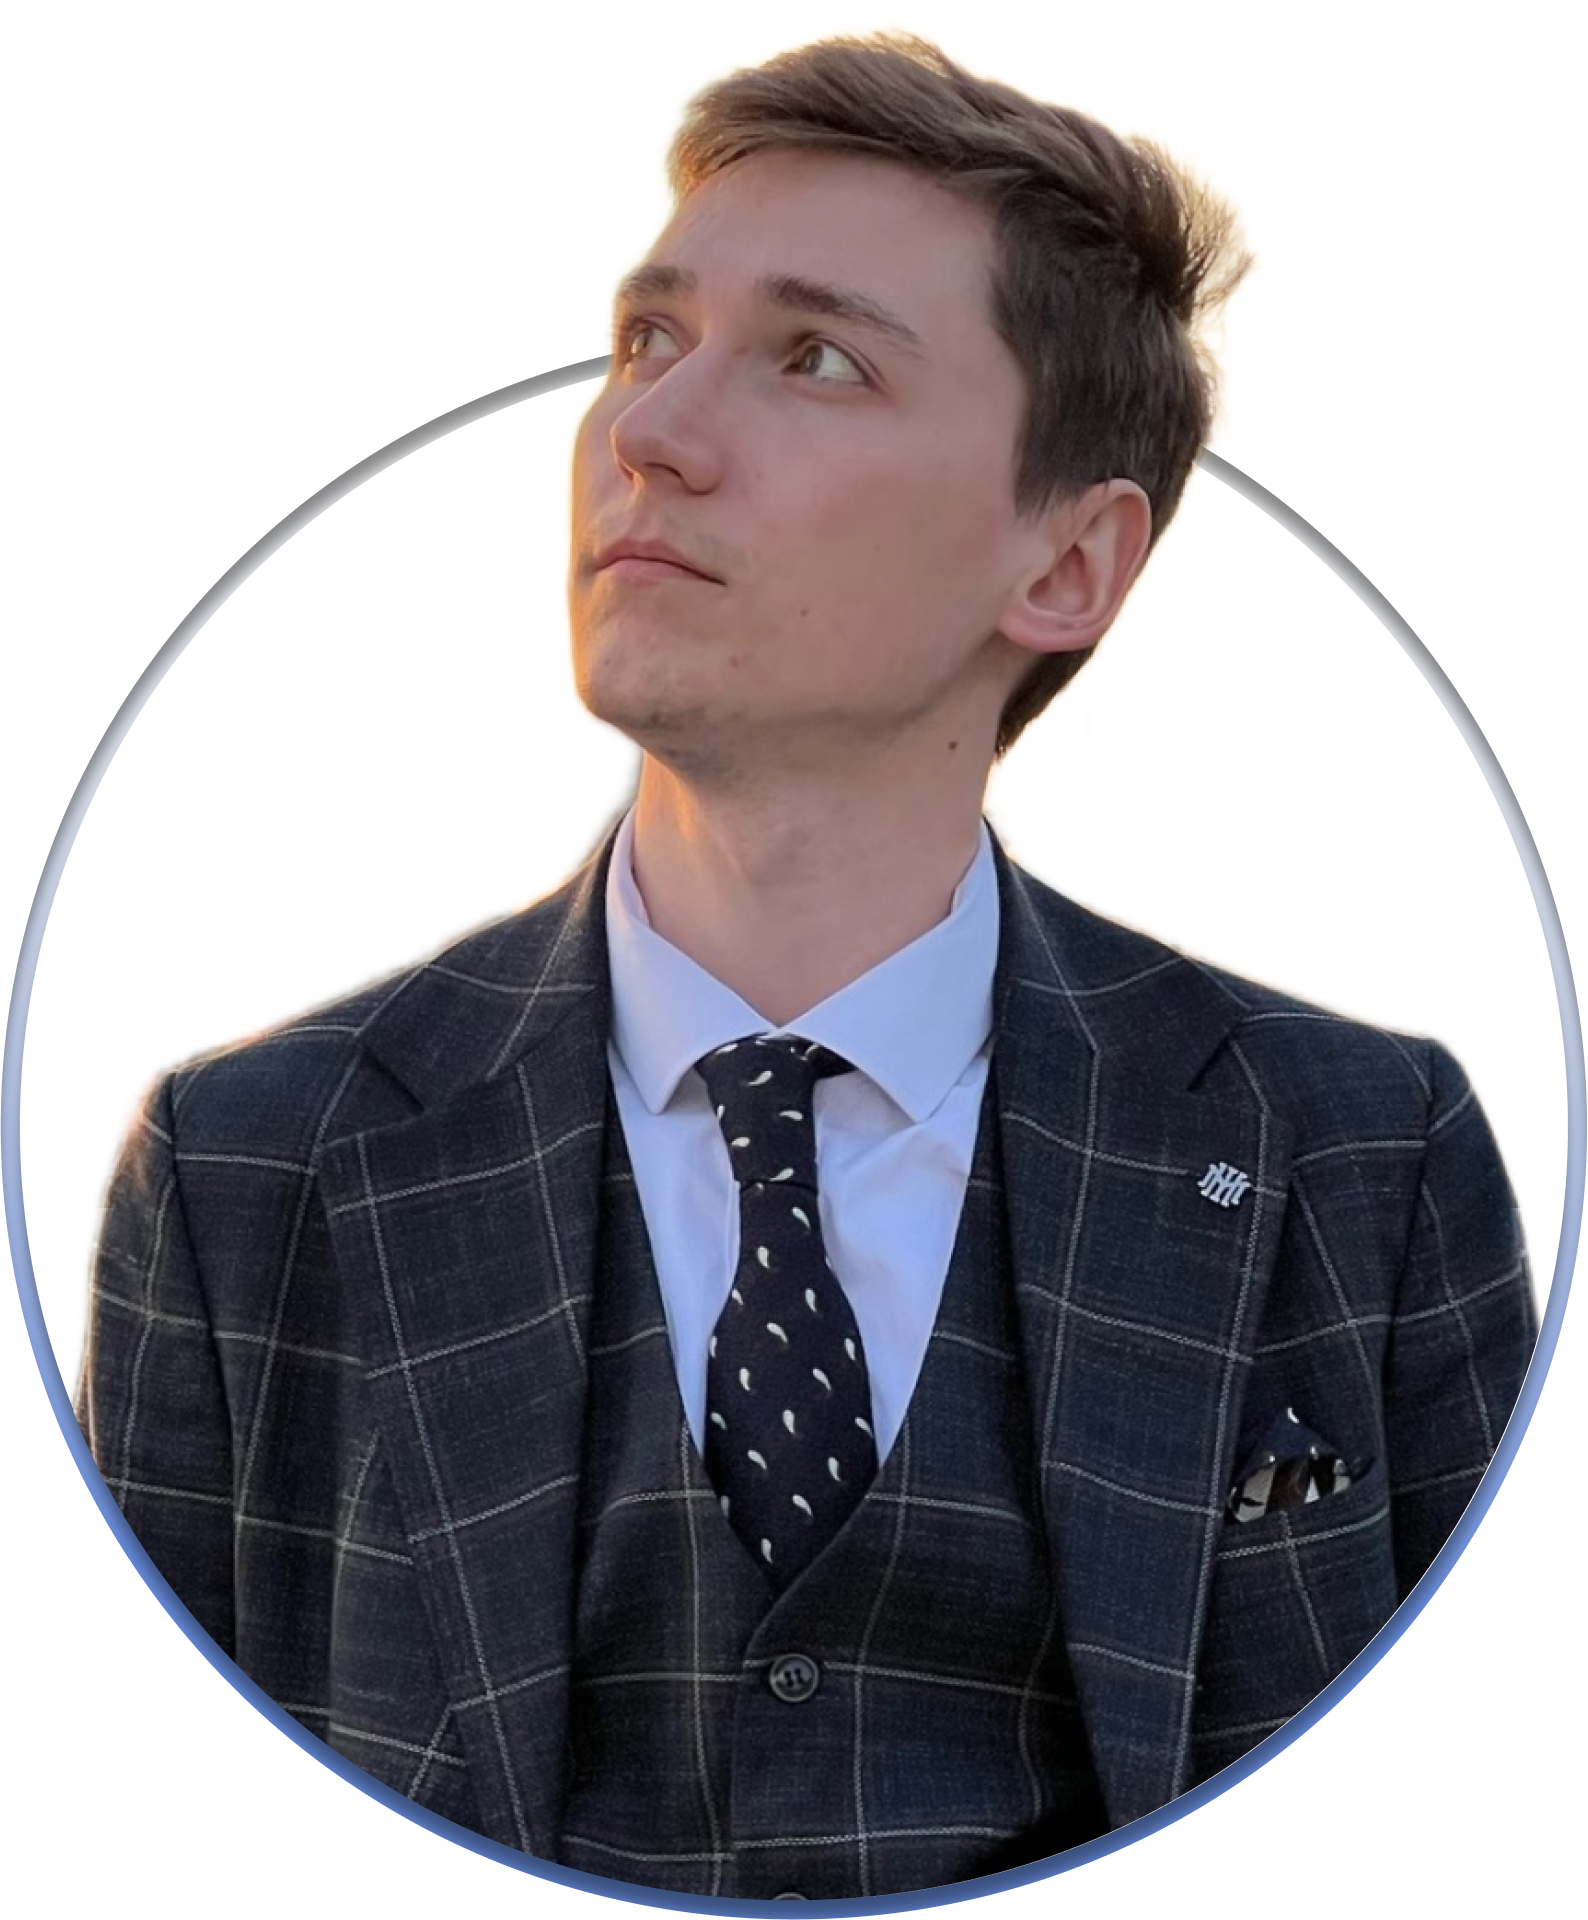
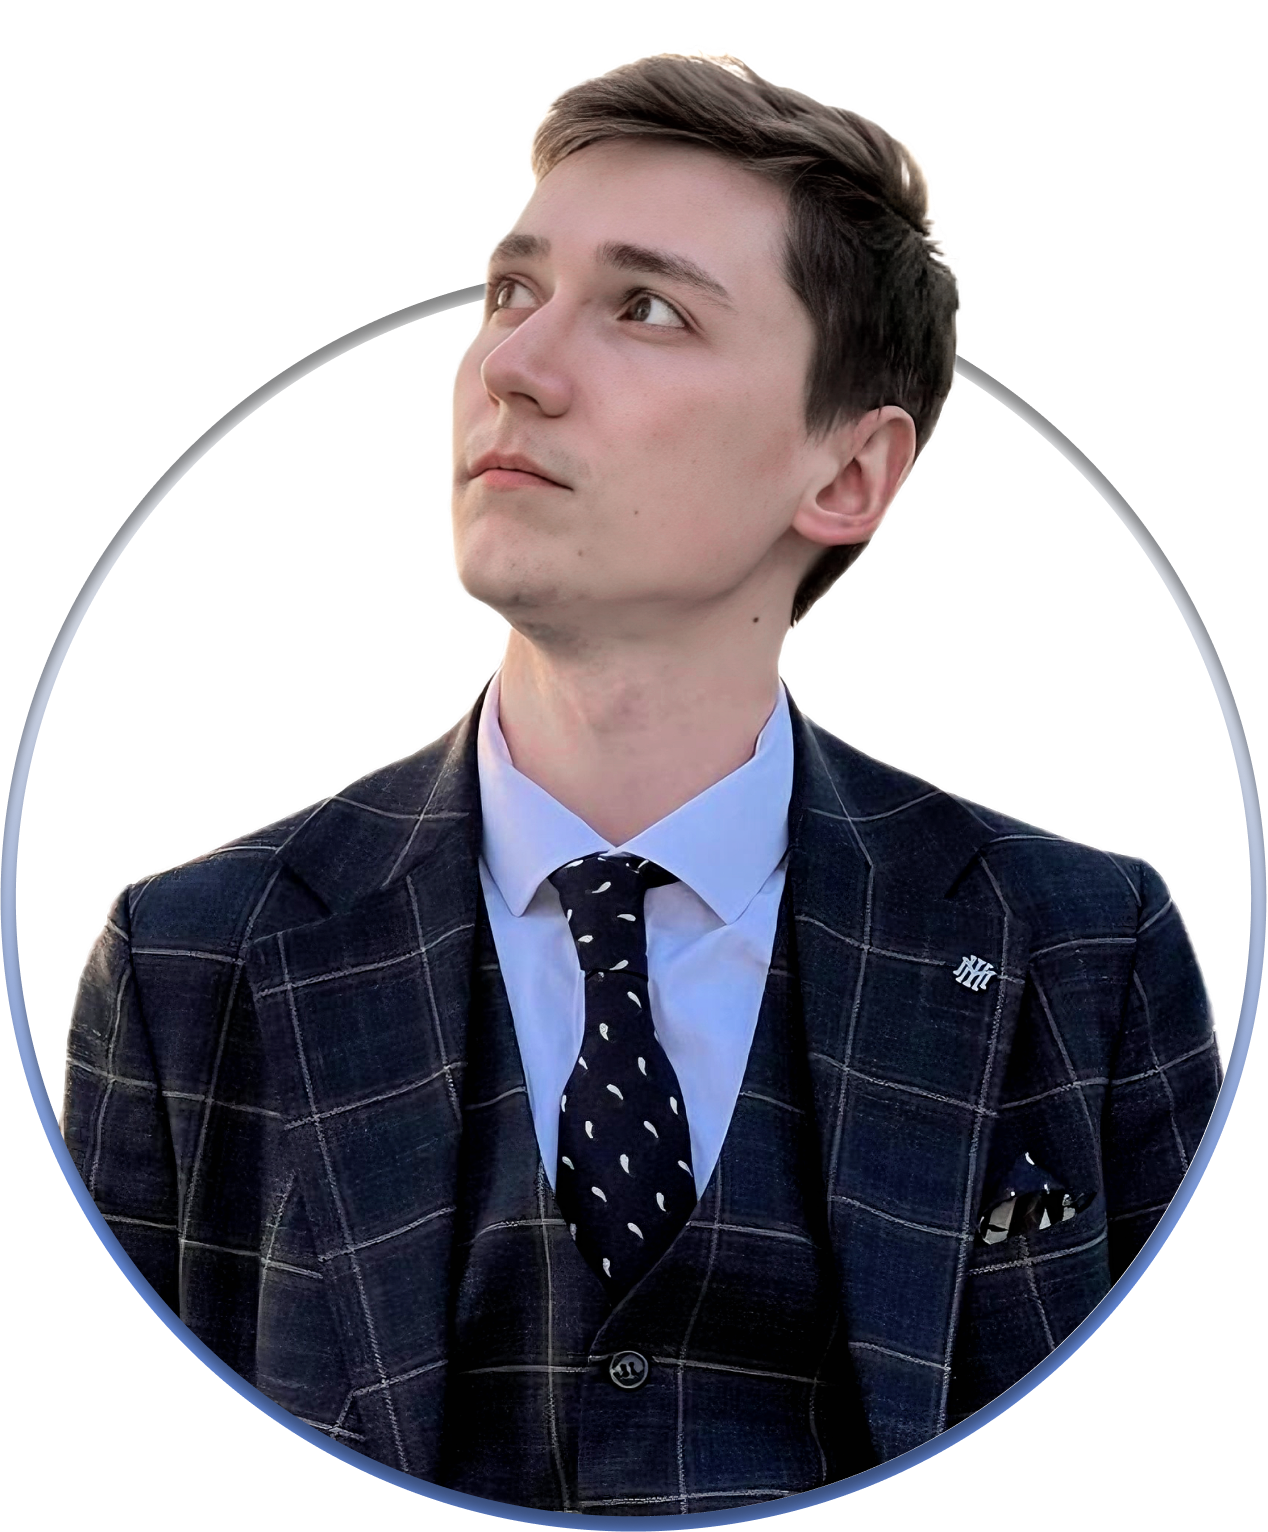
change hero avatar2

Changed region(s): [[0.0308, 0.0, 1.0, 1.0]]

diff --git a/index.html b/index.html
@@ -43,7 +43,7 @@
             <p class="hero__description">Создаю сайты, которые вдохновляют.<br> Готов погрузиться в ваш проект и представить его в динамичном, современном стиле.</p>
           </div>
           <div class="hero__imgblock">
-            <img class="hero__avatar" src="images/My photo (b++).png" alt="Tema Sorokin avatar">
+            <img class="hero__avatar" src="images/My photo.png" alt="Tema Sorokin avatar">
             <div class="socmedia">
               <a class="socmedia__link" href="https://t.me/foxdek" target="_blank">
                 <svg class="socmedia__img" width="50" height="50" viewBox="0 0 50 50" fill="none" xmlns="http://www.w3.org/2000/svg"><path d="M25 50C38.8104 50 50 38.8104 50 25C50 11.1896 38.8104 0 25 0C11.1896 0 0 11.1896 0 25C0 38.8104 11.1896 50 25 50ZM11.4396 24.4583L35.5438 15.1646C36.6625 14.7604 37.6396 15.4375 37.2771 17.1292L37.2792 17.1271L33.175 36.4625C32.8708 37.8333 32.0562 38.1667 30.9167 37.5208L24.6667 32.9146L21.6521 35.8187C21.3187 36.1521 21.0375 36.4333 20.3917 36.4333L20.8354 30.0729L32.4187 19.6083C32.9229 19.1646 32.3062 18.9146 31.6417 19.3563L17.3271 28.3687L11.1562 26.4437C9.81667 26.0187 9.7875 25.1042 11.4396 24.4583Z" fill="black"/></svg>
